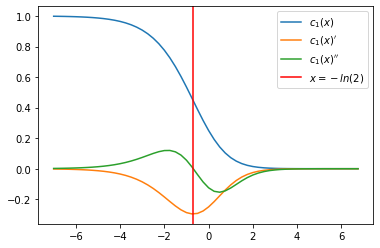
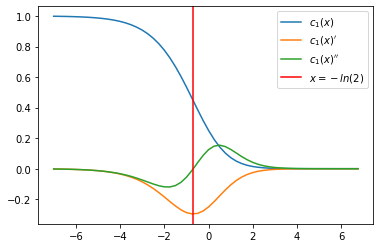
correct calculations

diff --git a/SW02/lab report/main.tex b/SW02/lab report/main.tex
@@ -95,14 +95,14 @@ Now in order to find the boundaries we let the variable $z$ run to infinity in b
 	\\
 	\frac{d^2}{d x^2} SE(x)&=-2\sigma(x)(1-\sigma(x))(\sigma(x)-1)^2-2\sigma(x)2(\sigma(x)-1)\sigma(x)(1-\sigma(x))\\
 	&=-2\sigma(x)(1-\sigma(x))((\sigma(x)-1)^2+2\sigma(x)(\sigma(x)-1)) \\ &=-2\sigma(x)(1-\sigma(x))(\sigma(x)-1)(\sigma(x)-1+2\sigma(x)) \\
-	&=-2\sigma(x)(\sigma(x)-1)^2(3\sigma(x)-1) \\
-	&=\sigma(x)(\sigma(x)-1)^2(2-6\sigma(x)) 
+	&=2\sigma(x)(\sigma(x)-1)^2(3\sigma(x)-1) \\
+	&=\sigma(x)(\sigma(x)-1)^2(6\sigma(x)-2) 
 	\\ \\
 	\sigma(x)&\to(0, 1) \\
 	(\sigma(x)-1)^2&\to(0,1) \\
-	(2-6\sigma(x)) &\to \left\{\begin{array}{lr}
-		(0, 2), & \text{for } x < -ln(2) \\
-		(-4, 0], & \text{for } x >= -ln(2)
+	(6\sigma(x)-2) &\to \left\{\begin{array}{lr}
+		[0, -2), & \text{for } x \leq -\text{ln}(2) \\
+		(0, 4), & \text{for } x > -\text{ln}(2)
 	\end{array}\right\} \to \text{hence SE is non convex}
 \end{aligned}
 \]\\
@@ -116,18 +116,18 @@ Hence the gradient update step $x_{t}\leftarrow x_{t-1}-\frac{d}{dx}SE(x_{t-1})$
 \begin{figure}[hbt!]
 	\centering
 	\includegraphics[width=.5\linewidth]{taskf.png}
-	\caption{The squared error $c_1$ with its derivatives and a vertical line at the threshold where the second derivative enters the negative range.}
+	\caption{The squared error $c_1$ with its derivatives and a vertical line at the threshold where the second derivative enters the positive range.}
 \end{figure}
 
 \subsection{Task (g)}
 \[
 \begin{aligned}
 	c_{2}(x)=CE(x)&=-(y \log (\sigma(w \cdot x))+(1-y) \log (1-\sigma(w \cdot x))) \\ \\
-	\frac{\partial}{\partial w} CE(x)&=\frac{\partial}{\partial w}-\left(y-\log \sigma(wx)+(1-y) \log \left(1-\sigma(wx)\right)\right)=-\left(\frac{-y}{\sigma(wx)}\sigma(wx)^\prime x+\frac{1-y}{1-\sigma(wx)}\sigma(wx)^\prime x\right) \\
-	&=-\sigma(wx)^\prime x\left(\frac{-y}{\sigma(wx)}+\frac{1-y}{1-\sigma(wx)}\right)=-\sigma(wx)^\prime x\left(\frac{-y(1-\sigma(wx))+(1-y)\sigma(wx)}{\sigma(wx)^\prime}\right) \\
-	&=-x(\sigma(wx)-y)=x(y-\sigma(wx)) \\
+	\frac{\partial}{\partial w} CE(x)&=\frac{\partial}{\partial w}-\left(y\log \sigma(wx)+(1-y) \log \left(1-\sigma(wx)\right)\right)=-\left(\frac{y}{\sigma(wx)}\sigma(wx)^\prime x-\frac{1-y}{1-\sigma(wx)}\sigma(wx)^\prime x\right) \\
+	&=-\sigma(wx)^\prime x\left(\frac{y}{\sigma(wx)}-\frac{1-y}{1-\sigma(wx)}\right)=-\sigma(wx)^\prime x\left(\frac{y(1-\sigma(wx))-(1-y)\sigma(wx)}{\sigma(wx)^\prime}\right) \\
+	&=x(\sigma(wx)-y) \\
 	\\
-	\frac{\partial^2}{\partial w^2} CE(x) &= \frac{\partial}{\partial w} x(y-\sigma(wx)) = \sigma^\prime(wx) x^2 \\
+	\frac{\partial^2}{\partial w^2} CE(x) &= \frac{\partial}{\partial w} x(\sigma(wx)-y) = \sigma^\prime(wx) x^2 \\
 	&= \sigma(wx)(1-\sigma(wx) x^2 \\
 	\\ \\
 	\sigma(wx)&\to(0,1) \\
